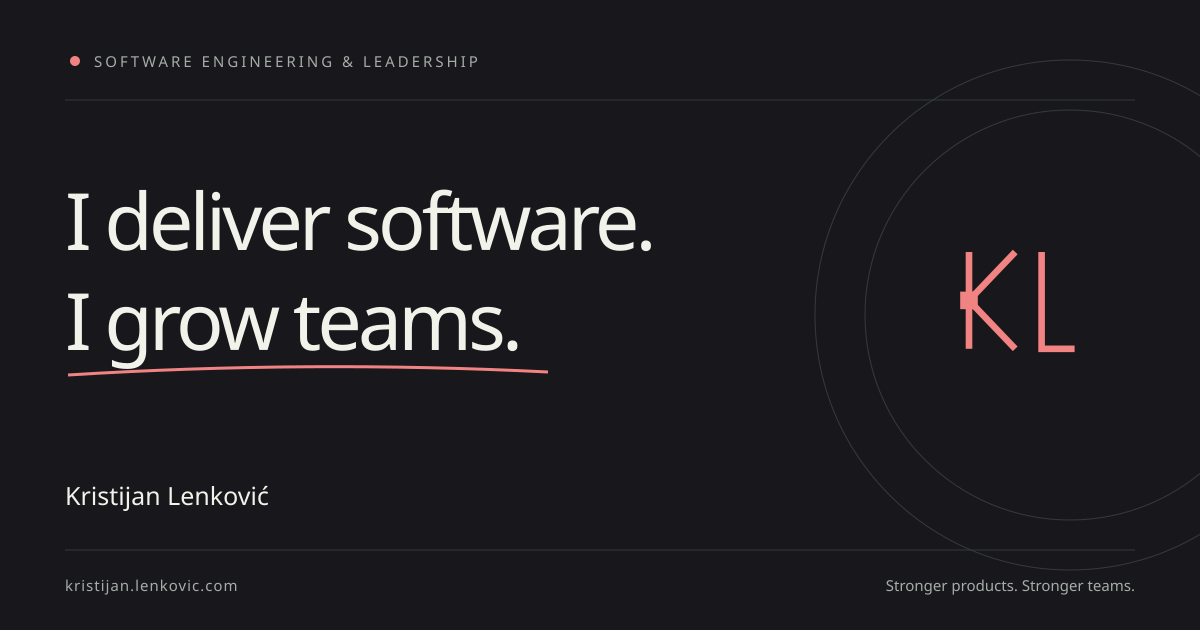
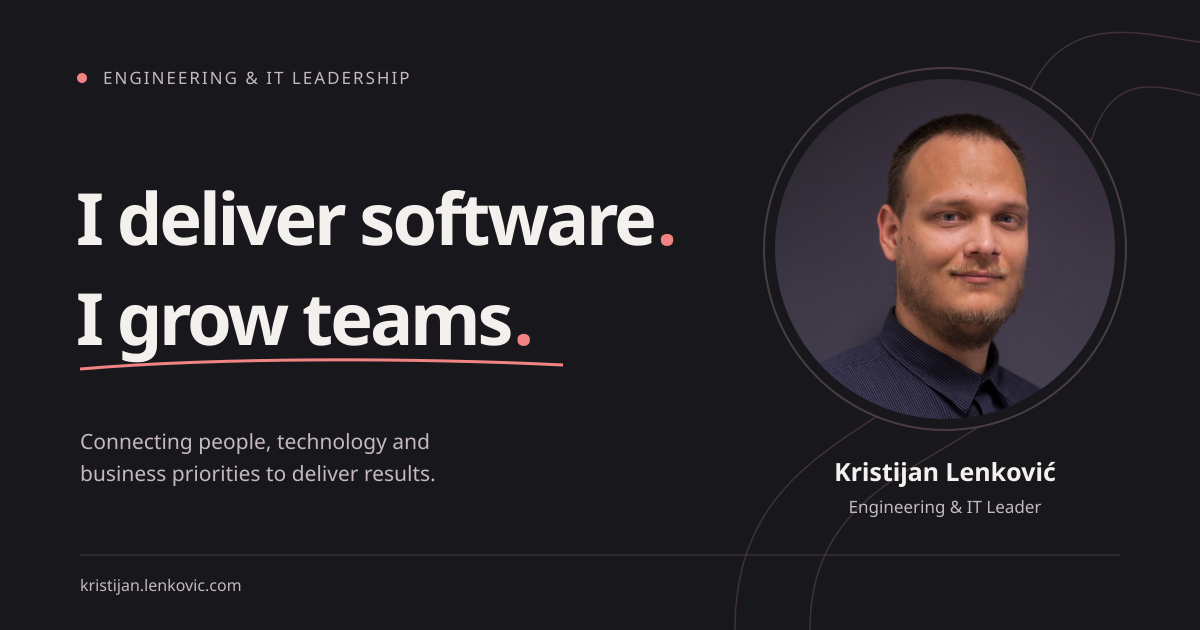
Refresh social preview and stabilize browser checks
- Generate the social card from editable SVG and portrait assets
- Update sharing metadata, dependencies, and performance documentation
- Run Playwright checks in CI on a dedicated preview port

diff --git a/tests/site.spec.ts b/tests/site.spec.ts
@@ -175,7 +175,7 @@ test('page and dialog fit narrow and wide screens', async ({ page }) => {
     await page.goto('/');
     expect(await page.evaluate(() => document.documentElement.scrollWidth <= window.innerWidth)).toBe(true);
     const navigation = page.getByRole('navigation', { name: 'Main navigation' });
-    for (const [name, target] of [['Approach', '#expertise'], ['Experience', '#impact'], ['AI', '#ai'], ['Technologies', '#technologies'], ['Contact', '#contact']]) {
+    for (const [name, target] of [['Approach', '#expertise'], ['Experience', '#impact'], ['AI', '#ai'], ['Tech, Technologies', '#technologies'], ['Contact', '#contact']]) {
       const link = navigation.getByRole('link', { name, exact: true });
       await expect(link).toBeVisible();
       await expect(link).toBeInViewport({ ratio: 1 });
@@ -217,10 +217,10 @@ test('page and dialog fit narrow and wide screens', async ({ page }) => {
   }
 });
 
-test('static content works without JavaScript', async ({ browser }) => {
-  const context = await browser.newContext({ javaScriptEnabled: false });
+test('static content works without JavaScript', async ({ browser, baseURL }) => {
+  const context = await browser.newContext({ javaScriptEnabled: false, baseURL });
   const page = await context.newPage();
-  await page.goto('http://127.0.0.1:4321/');
+  await page.goto('/');
   await expect(page.getByRole('heading', { level: 1 })).toBeVisible();
   await expect(page.getByAltText('Portrait of Kristijan Lenković')).toBeVisible();
   await expect(page.getByRole('link', { name: 'Request my CV' }).first()).toHaveAttribute('href', '#contact');

diff --git a/playwright.config.ts b/playwright.config.ts
@@ -5,11 +5,11 @@ export default defineConfig({
   testMatch: '**/*.spec.ts',
   fullyParallel: true,
   reporter: 'list',
-  use: { baseURL: 'http://127.0.0.1:4321' },
+  use: { baseURL: 'http://127.0.0.1:4329' },
   webServer: {
-    command: 'npm run build && npm run preview -- --ignore-lock --host 127.0.0.1 --port 4321',
-    url: 'http://127.0.0.1:4321',
-    reuseExistingServer: !process.env.CI,
+    command: 'npm run build && npm run preview -- --ignore-lock --host 127.0.0.1 --port 4329',
+    url: 'http://127.0.0.1:4329',
+    reuseExistingServer: false,
     // Test-only identifier; Google requests are mocked in analytics tests.
     env: { PUBLIC_GA_MEASUREMENT_ID: 'G-TEST12345' },
   },

diff --git a/docs/performance.md b/docs/performance.md
@@ -4,31 +4,22 @@ Audit date: 2026-11-01 (Europe/Zagreb). Lighthouse 13.5.0, Chromium, Node.js 24.
 
 ## Production results
 
-The current production build scores **99 performance** on mobile and **100 accessibility, best practices, and SEO**. First Contentful Paint is **1.4 seconds**, Largest Contentful Paint **1.8 seconds**, CLS **0.001**, and total blocking time **0 ms**.
+The local production build scored **100 in all four categories** on mobile. First Contentful Paint was **1.4 seconds**, Largest Contentful Paint **1.7 seconds**, CLS **0.001**, and total blocking time **0 ms**.
 
 Desktop scores **100 in all four categories**, with FCP **0.3 seconds**, LCP **0.4 seconds**, CLS **0.001**, and total blocking time **0 ms**. Analytics and the contact service were not configured for this audit. Re-run after enabling them and after deployment; scores vary by hardware, network, and run.
 
-Reports from this verification are saved locally in:
-
-- `reports/performance/after-mobile-fixes/mobile.html` and `mobile.json`
-- `reports/performance/after-mobile-fixes/desktop.html` and `desktop.json`
-
-The pre-change production baseline is in `reports/performance/before-mobile-fixes/`: mobile performance 98, FCP 1.8 seconds, LCP 2.1 seconds. The reports directory is ignored by Git; the workflow uploads its generated reports as artifacts.
+Reports are written to `reports/performance/`, which is ignored by Git; the workflow uploads its generated reports as artifacts.
 
 ## Development preview versus production preview
 
-The supplied preview on port 4322 runs **Astro dev**, including Vite's development module graph and on-demand image transformations. Its initial mobile audit reproduced the reported problem: performance **67**, FCP **4.0 seconds**, and LCP **6.8 seconds**. The later development audit scored **65**, FCP **5.1 seconds**, and LCP **6.4 seconds**. Development performance is still poor under Lighthouse throttling; the production score must not be presented as the development server's score.
-
-The two development audits are retained in `reports/performance/before-dev-mobile-fixes/` and `reports/performance/after-dev-mobile-fixes/`.
-
-For a representative manual test, use `npm run build` followed by `npm run preview` and open the URL printed by that command. The production preview used for browser inspection is currently `http://localhost:4323/`. It serves built assets and has no Vite client. The audit script starts its own production server on port 4330.
+Astro dev includes Vite's development module graph and on-demand image transformations, so its timings are not representative of production. For a representative manual test, use `npm run build` followed by `npm run preview` and open the URL printed by that command. The audit script starts its own production server on port 4330.
 
 ## Changes and regression checks
 
 - The initial fonts are preloaded, including the Manrope subset for Croatian characters.
 - The portrait uses responsive AVIF images with WebP fallback and a high-priority natural image. Both portrait layers share the same cached image URLs.
 - The logo batch starts after the initial page load and rendering frames, or immediately when a visitor jumps to Technologies. All logos and repeated copies still finish loading and decoding before the section appears or animates. Removing the initial 65 image preloads keeps them out of the critical request queue.
-- Mobile navigation stays on one line, the Croatia label sits below the photograph, logo sizes and gaps accommodate at least four fully visible marks at 320px and five at 390px throughout the animation, and copyright is always the last footer row.
+- Mobile navigation stays on one line, the Croatia label sits beside the compact portrait, logo sizes and gaps accommodate at least four fully visible marks at 320px and five at 390px throughout the animation, and copyright is always the last footer row.
 
 Browser checks cover widths from 320px to 2560px, both themes, portrait hover/touch behavior, keyboard navigation, accessibility, the no-JavaScript fallback, and delayed/failed logo loads. A blocked hero-image test verifies that logo downloads wait unless the visitor jumps directly to their section. A held decode on an offscreen loop copy verifies that successful downloads alone cannot reveal the section prematurely.
 

diff --git a/README.md b/README.md
@@ -70,6 +70,8 @@ References: [GA4 account/property/stream setup](https://support.google.com/analy
 
 The visual design is implemented directly in Astro and CSS, with a personal geometric KL monogram used in the header, portrait seal, contact section, and favicon. No premade website theme is installed. Shared geometry, typography, and the red/plum palette give the site a consistent identity; global exclusivity of simple shapes cannot be guaranteed.
 
+The homepage's social sharing preview uses `public/social-card.png`, generated from the editable `assets/social-card.svg` and the site portrait. After changing either, regenerate the PNG with `node scripts/social-card.mjs` and keep its text in sync with the homepage and image alt text. Social platforms may cache older previews.
+
 Manrope (headings) and DM Sans (body) are free, open-source fonts under SIL OFL 1.1. They are self-hosted and require no Google Fonts network requests, subscription, or commercial font license purchase. Full copyright and license texts ship in `public/licenses/` and therefore in `dist/licenses/`. See `THIRD_PARTY_NOTICES.md` for provenance.
 
 ## Impact, opportunities, and professional profiles
